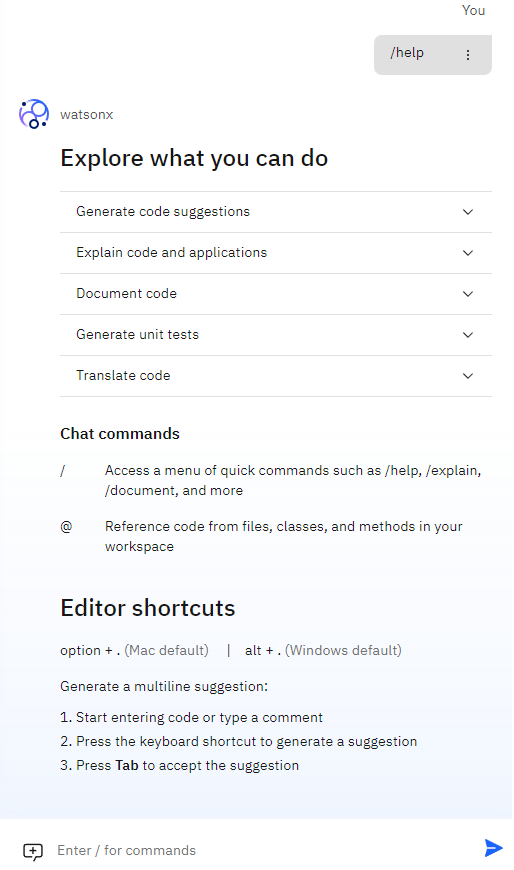
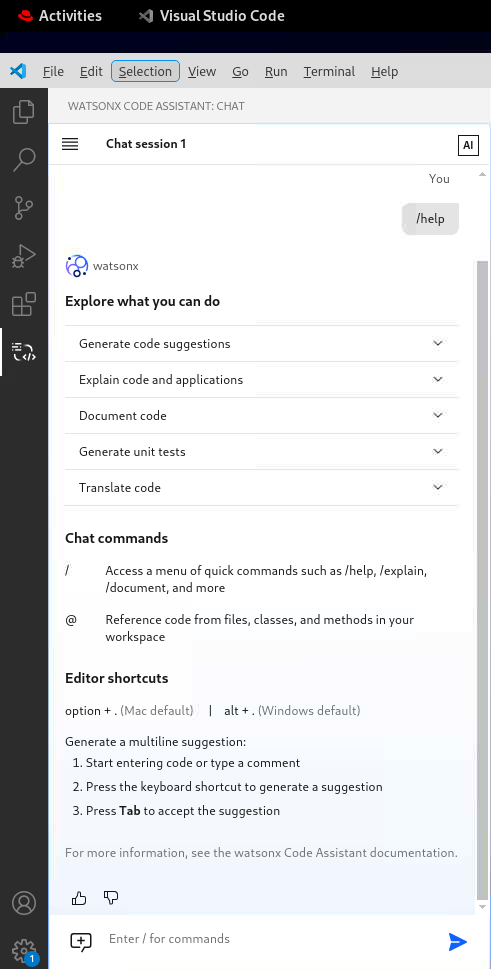
Updated

diff --git a/README.md b/README.md
@@ -415,7 +415,7 @@ There are different ways to interact with watsonx Code Assistant.
  
     <kbd>![](./images/media/WCA_Chat-Hello.png)</kbd>
  
-3. Enter **/help** and press **Enter** or click on the **blue arrow**.
+3. Enter **/help** and click on the **blue arrow**.
 
     <kbd>![](./images/media/WCA_Chat-help.png)</kbd>
 
